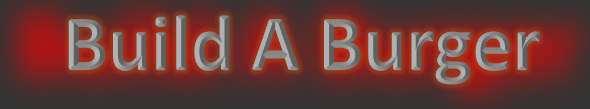
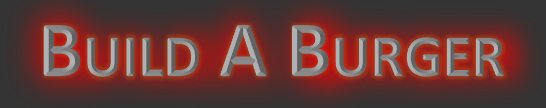
adding tooltip and fixing insertHTML

diff --git a/app.js b/app.js
@@ -1,69 +1,83 @@
- window.onscroll = function() {hideScrollBtn()};
+window.onscroll = function() {hideScrollBtn()};
 
- 	function showGrill() 
- 		{
- 		if ( document.getElementById( "grillContent").innerHTML=="")
- 			{
- 			var grill = Array();
- 			grill[0] = "Top Sirloin Steak! - $4.99";
- 			grill[1] = "1/2 Pounder! - $3.99";
- 			grill[2] = "Bacon Wrapped Burger! - $3.50";
 
- 			var onTheGrill = "<hr width=50%>";
- 			for (i = 0; i < grill.length; i++)
- 				{
- 				if (i != 0)
- 					onTheGrill += "<br><br>";
- 				onTheGrill += "&#10146 &nbsp " + grill[i] +  "&nbsp &#10147";
- 				}
- 			document.getElementById("grillContent").innerHTML=onTheGrill;
- 			}
- 		else
- 			document.getElementById("grillContent").innerHTML="";
- 		}//showGrill()
+function showGrill() 
+{
+if ( document.getElementById( "grillContent").innerHTML=="")
+	{
+	var grill = Array();
+	grill[0] = "Top Sirloin Steak! - $4.99";
+	grill[1] = "1/2 Pounder! - $3.99";
+	grill[2] = "Bacon Wrapped Burger! - $3.50";
 
-	function showPara()
-        {
-        //shows fun burger facts
-       	if ( document.getElementById( "randomFact").innerHTML=="")
-       		{
-       		var rand_num = Math.floor( Math.random() * 4 );
-	     		
-	     	//only create new random number if it is the same as the last time	
-	     	if ( typeof temp == 'number' )
-	     		{
-	     		while ( rand_num == temp )
-	     			{
-					var rand_num = Math.floor(Math.random()*4);
-	       			}
-	     		}
+	var onTheGrill = "<hr width=50%>";
+	for (i = 0; i < grill.length; i++)
+		{
+		if (i != 0)
+			onTheGrill += "<br><br>";
+		onTheGrill += "&#10146 &nbsp " + grill[i] +  "&nbsp &#10147";
+		}
+	document.getElementById("grillContent").innerHTML=onTheGrill;
+	}
+else
+	document.getElementById("grillContent").innerHTML="";
+}//showGrill()
 
-            temp = rand_num;//save previous fact, no duplicates
-	        var facts = Array();
-	        facts[0] = "7 calories in a gram of burger fat!";
-	        facts[1] = "Bacon bits make any burger better!";
-	        facts[2] = "Burger Meister Burger Meister!";
-	        facts[3] = "Some burgers aren't made of beef!";
-	           document.getElementById( "randomFact" ).innerHTML = facts[rand_num];
-	        }
-	    else{
-	    	document.getElementById( "randomFact" ).innerHTML="";
-	    	}
-        }//end showPara()
 
-    function scrollMeToTop()
-    	{
-    	//scrolls to top of page
-       	
-       	document.documentElement.scrollTop = 0;//window.scrollTo(0,0);//also works
-       	document.body.scrollTop = 0;
-    	}//end scrollMeToTop()
+function showFact()
+{
+//shows fun burger facts
+  if ( !document.getElementById( "funFact") )
+    {
+    var rand_num = Math.floor( Math.random() * 4 );
+    
+  //only create new random number if it is the same as the last time  
+  if ( typeof temp == 'number' )
+    {
+    while ( rand_num == temp )
+      {
+    var rand_num = Math.floor(Math.random()*4);
+        }
+    }
 
-    function hideScrollBtn()
-    	{
-    	//hide scroll button when at top of document
-    	if (document.documentElement.scrollTop > 20 || document.body.scrollTop > 20)
-    		document.getElementById("scrollBtn").style.display="block";
-    	else
-    		document.getElementById("scrollBtn").style.display="none";
-    	}//end hideScrollBtn()
+      temp = rand_num;//save previous fact, no duplicates
+    var facts = Array();
+    facts[0] = "7 calories in a gram of burger fat!";
+    facts[1] = "Bacon bits make any burger better!";
+    facts[2] = "Burger Meister Burger Meister!";
+    facts[3] = "Some burgers aren't made of beef!";
+      
+    //create new node
+    var node = document.createElement( 'div' );
+    node.setAttribute('id', 'funFact' );
+    //fill node with text
+    var textnode = document.createTextNode( facts[rand_num] );
+    //append text to new node
+    node.appendChild( textnode );
+    //append node to DOM
+    document.getElementById( 'factContainer' ).appendChild(node);
+    }
+else{
+    var fact_element = document.getElementById( "funFact" );
+    fact_element.parentNode.removeChild( fact_element );
+    }
+}//end showPara()
+
+
+function scrollMeToTop()
+{
+//scrolls to top of page
+ 	
+ 	document.documentElement.scrollTop = 0;//window.scrollTo(0,0);//also works
+ 	document.body.scrollTop = 0;
+}//end scrollMeToTop()
+
+
+function hideScrollBtn()
+{
+//hide scroll button when at top of document
+if (document.documentElement.scrollTop > 20 || document.body.scrollTop > 20)
+	document.getElementById("scrollBtn").style.display="block";
+else
+	document.getElementById("scrollBtn").style.display="none";
+}//end hideScrollBtn()

diff --git a/stylesheet.css b/stylesheet.css
@@ -22,6 +22,7 @@
 		display: ;
 		width: 600px;
 		font-size: 20pt;
+		font-variant: small-caps;
 		color: white;
 		background-color: none;
 		border: none;
@@ -101,31 +102,45 @@
     }
 	#funFactContent form {      
 		font-size: 18pt;   
+		font-variant: small-caps;
 		padding: 10px 0px 10px 0px;
 		background-image:
 		url('C:/Users/RWolff/Desktop/Project4Fun/assets/vertical_wood.png');
 	}
-	.facts {
+	#funFact {
 		display: block;
 		visibility: visible;
 		font-size: 18pt;
+		font-variant: small-caps;
+		font-weight: bold;
 		color: red;
-
+		animation: fadetext 3s infinite;
+	}
+	@keyframes fadetext {
+		0% {opacity: 1;}
+		60% {opacity: 0;}
+		0% {opacity: 1;}
 	}
 
-	#selectToppingsContainer {
+	#condimentsContainer {
 		display: flex;
 		width: 100%;
 		border: none;
 	}
-	
-	.mainBody4 {
+	.condimentsTitle {
 		display: inline-block;
 		position: relative;
 		width: 45%;
 		background-image: url('C:/Users/RWolff/Desktop/Project4Fun/assets/horizontal_wood.png');
 		padding: 20px 0px 20px 0px;
 		border: none;
+		font-size: 16pt;
+		font-variant: small-caps;
+	}
+	
+	
+	.mainBody4:hover {
+		color: red;
 	}
 	.mainBody5 {
 		display: inline-block;
@@ -154,7 +169,7 @@
 		 bottom: 20px;
 		 right: 30px;
 		 z-index: 99;
-		 font-size: 18px;
+		 font-size: 18pt;
 		 border: none;
 		 outline: none;
 		 background-color: red;
@@ -175,10 +190,11 @@
 	box-shadow: 2px 5px 10px 0px black;
 }
 
-/* THIS CODE BELOW CREATES A CUSTOM CHECKBOX THAT IS GREY/BLUE
+/******************************************************
+THIS CODE BELOW CREATES A CUSTOM CHECKBOX THAT IS GREY/BLUE
 WITH A TWO SIDED BORDER CREATING THE CHECK. THE DEFAULT
-CHECKBOX WILL BE HIDDEN*/
-
+CHECKBOX WILL BE HIDDEN
+********************************************************/
 /* The container */
 .container {
   display: block;
@@ -239,4 +255,48 @@ CHECKBOX WILL BE HIDDEN*/
   border: solid white;
   border-width: 0px 3px 3px 0px; 
   transform: rotate(45deg);
+}
+
+/******************************************************
+THIS CODE BELOW CREATES A CUSTOM HOVERABLE TOOLTIP
+********************************************************/
+/*this class is for the element to be tooltipped*/
+.tooltip {
+  position: relative;
+  display: inline-block;
+}
+
+/*the "tooltiptext" subclass is for the tooltip itsself*/
+.tooltip .tooltiptext {
+  visibility: hidden;
+  width: 300px;
+  background-color: #555;
+  color: #fff;
+  text-align: center;
+  border-radius: 6px;
+  box-shadow: 5px 10px 10px 0px black;
+  padding: 5px 0;
+  position: absolute;
+  z-index: 1;
+  top: 125%;
+  left: -50%;
+  margin-left: -60px;
+  opacity: 0;
+  transition: opacity 0.3s;
+}
+
+.tooltip .tooltiptext::after {
+  content: "";
+  position: absolute;
+  bottom: 100%;
+  left: 50%;
+  margin-left: -5px;
+  border-width: 5px;
+  border-style: solid;
+  border-color: transparent transparent #555 transparent;
+}
+
+.tooltip:hover .tooltiptext {
+  visibility: visible;
+  opacity: 1;
 }

diff --git a/index.html b/index.html
@@ -3,7 +3,7 @@
 
 
 <!--The link tag must be out side of the <style> tags-->
-<link rel="stylesheet" href="index_stylesheet.css" />
+<link rel="stylesheet" href="stylesheet.css" />
 
 <style>
 	/*CSS file linked in*/
@@ -47,28 +47,37 @@
 		</div></a><br>
 
 		<div id="funFactContent" class="mainBody3 round shadow">
-			<form name="my_form">
-				<div class="chk_txt">Click to show a fun burger fact!</div>
-		        <label class="container"><input type="checkbox" name="chk_box1" onClick="showPara();" /><span id="chk_cust1" class="checkmark round"/></label>
+			<form name="my_form" class="round">
+				<div id="factContainer" class="chk_txt">Click to show a fun burger fact!
+		        	<label class="container">
+		        		<input type="checkbox" name="chk_box1" onClick="showFact();" />
+		        		<span id="chk_cust1" class="checkmark round"/>
+		        	</label>
+		    	</div>
 		    </form>
-			<span class="facts" id="randomFact"></span>
 		</div> <br>
 
-		<div id="selectToppingsContainer">
-			<div class="mainBody4 round shadow">
-				<div><b><u>Toppings</u></b></div>
-				<div>Havarti</div>
+		<div id="condimentsContainer">
+			<div class="condimentsTitle round shadow">
+				<div>
+					<b><u>Toppings</u></b>
+				</div>
+
+				<div class="tooltip">
+					Havarti
+					<span class="tooltiptext">
+						1 Slice &#9679 105 cal &#9679 $0.50
+					</span>
+				</div>
 			</div>
 
 			<div class="mainBody5"></div>
 
-			<div class="mainBody4 round shadow">
+			<div class="condimentsTitle round shadow">
 				<div><b><u>Sauces</u></b></div>
 				<div>Ketchup</div>
 			</div>
 		</div>
-
-		
 
 	</div>
 </div><!--end mainContaier-->
